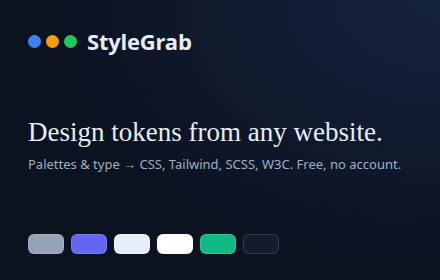
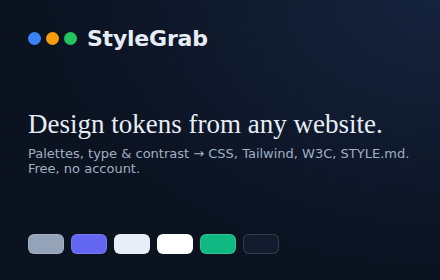
docs(store): regenerate all store assets around the fidelity+handoff release
Screenshots regenerated from the real loaded extension, recomposed to
sell what shipped: shot 2 now shows the WCAG contrast verdicts above
the typography stack (replacing the typography-only shot), shot 3
shows the Agent spec (STYLE.md) export with the fixture's harvested
--brand token, shot 1's caption points out perceptual clustering and
site token names, and shot 5 leads with curation. Promo and marquee
tiles pick up the new one-line pitch. The listing's asset checklist
matches the new set.

Claude-Session: https://claude.ai/code/session_01H3Vdm79z96qqBjmLn7b73g

Changed region(s): [[0.0591, 0.4, 0.9455, 0.6286], [0.0591, 0.0857, 0.4727, 0.2]]

diff --git a/docs/STORE_LISTING.md b/docs/STORE_LISTING.md
@@ -103,9 +103,9 @@ All generated from the real, loaded extension with `npm run shots`
 
 - [x] Icon 128×128 — `public/icon/128.png`
 - [x] Screenshots 1280×800 (×5) in `docs/store/`:
-  - `shot-1-palette.png` — colour palette grouped by role
-  - `shot-2-typography.png` — typography with the font source
-  - `shot-3-export.png` — Tailwind config export
+  - `shot-1-palette.png` — colour palette grouped by role, with curation chips
+  - `shot-2-contrast.png` — WCAG contrast verdicts above the typography stack
+  - `shot-3-export.png` — Agent spec (STYLE.md) export with harvested token names
   - `shot-4-popup.png` — popup (capture + eyedropper)
   - `shot-5-organise.png` — tagging, notes and search
 - [x] Small promo tile 440×280 — `docs/store/promo-440x280.png`
